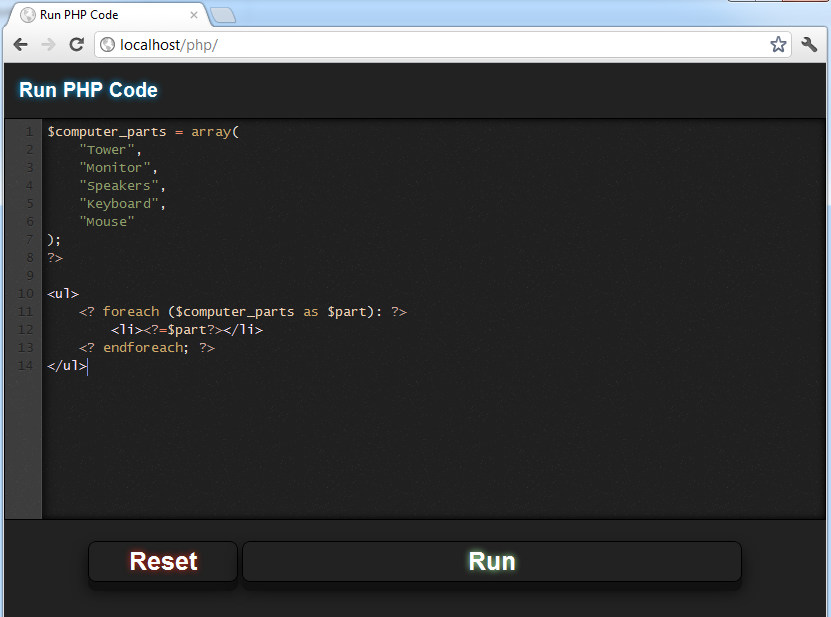
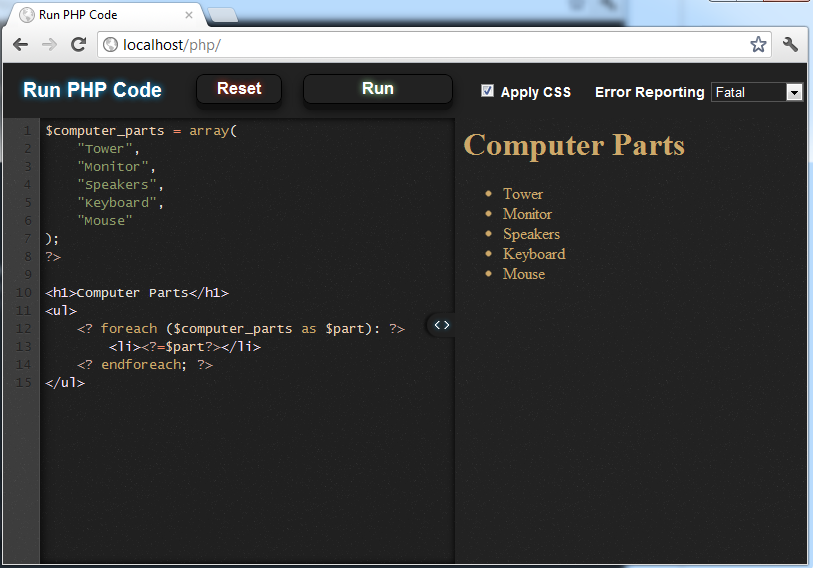
Move buttons to the top bar, add keyboard shortcut for run, show executed code in the same window, add resizer for code/run, update screenshot

diff --git a/run_php_code.js b/run_php_code.js
@@ -1,0 +1,89 @@
+var editor;
+var resizing;
+var divide_x;
+
+$(function() {
+
+	editor = CodeMirror.fromTextArea( document.getElementById("php"), {
+		lineNumbers: true,
+		matchBrackets: true,
+		mode: "application/x-httpd-php-open",
+		theme: "ambiance",
+		indentUnit: 4,
+		extraKeys: { 'Ctrl-Enter': function() { $('form').submit(); } }
+	});
+	
+	$('#reset').click(function() {
+		var answer = confirm("Are you sure you want to clear the editor?");
+		if (answer) editor.setValue('');
+	});
+	
+	$('#php_frame').load(function() {
+		if ($('#apply_css').prop('checked')) {
+			$(this).contents().find('body').css({
+				'background-color': '#222',
[1 lines of base64/hex data omitted]
+				'color': '#CDA869'
+			});
+		}
+		bind_php_frame();
+	}).load();
+	
+	divide_x = $(window).width() / 2;
+	
+	$(window).resize(function() {
+		var window_height = $(window).height();
+		var page_height = window_height - 55;
+		var page_width = $(window).width();
+		$('.CodeMirror-scroll').height(page_height); editor.refresh();
+		$('.CodeMirror').width(divide_x);
+		$('#php_frame').height(page_height);
+		$('#php_frame').width(page_width - divide_x);
+		$('#resize_ball').css('top', 55 + page_height/2 - 32);
+		$('#resize_ball').css('left', divide_x - 32 );
+	}).resize();
+	
+	$('#resize_ball').mousedown(function() { resizing = true; event.preventDefault(); }).mouseup(function(e) { resize_mouse_up(e.pageX) });
+	
+	$(document).mousemove(function(e) {
+		if (resizing) {
+			$('#resize_ball').css('left', e.pageX - 16);
+		}
+	}).mouseup(function(e) {
+		resize_mouse_up(e.pageX); 
+	});
+	
+	function bind_php_frame() {
+		$('#php_frame').contents().find('body').mousemove(function(e) {
+			if (resizing) {
+				var php_frame_position = $('#php_frame').position();
+				$('#resize_ball').css('left', e.pageX + php_frame_position.left - 32);
+			}
+		}).mouseup(function(e) {
+			resize_mouse_up( e.pageX + $('#php_frame').position().left ); 
+		});
+	}
+	
+	function resize_mouse_up(x) {
+		if (resizing) {
+			var window_width = $(window).width();
+			if (x < 100) x = 100;
+			if (x > window_width - 100) x = window_width - 100;
+			divide_x = x;
+			$('.CodeMirror').width(divide_x); editor.refresh();
+			$('#php_frame').width(window_width - divide_x);
+			resizing = false;
+			$(window).resize();
+		}
+	}
+
+});
+
+	
+	
+
+if (document.documentElement.attachEvent) {
+	document.documentElement.attachEvent('onmousedown',function(){
+		event.srcElement.hideFocus = true;
+	});
+}

diff --git a/run_php_code.css b/run_php_code.css
@@ -1,0 +1,67 @@
+html, body { padding: 0; margin: 0; }
+body { background-color: #222; color: #555; font-family: arial; overflow: hidden; }
+form { padding: 0; margin: 0; }
+
+#title_bar { 
+	font-size: 14px; 
+	line-height: 55px; 
+	font-weight: bold;
+	color: #FFF; 
+	height: 55px;
+	width: 1024px;
+	padding-left: 20px;
+}
+#title { font-size: 20px; text-shadow: 0 0 10px #00aaff; margin-right: 15px; }
+
+.CodeMirror { font-size: 13px; float: left; width: 50%; }
+
+.btn {
+	top: -3px;
+	position: relative;
+	color: #FFF;
+	background-color: #222;
+	font-size: 16px;
+	font-weight: bold;
+	/* display: block; */
+	padding: 4px 20px;
+	-webkit-border-radius: 8px;
+	-moz-border-radius: 8px;
+	border-radius: 8px;
+	-webkit-box-shadow: 0px 6px 0px #111, 0px 6px 15px rgba(0,0,0,.7);
+	-moz-box-shadow: 0px 6px 0px #111, 0px 6px 15px rgba(0,0,0,.7);
+	box-shadow: 0px 6px 0px #111, 0px 6px 15px rgba(0,0,0,.7);
+	text-align: center;
+
+	-webkit-transition: all .1s ease;
+	-moz-transition: all .1s ease;
+	-ms-transition: all .1s ease;
+	-o-transition: all .1s ease;
+	transition: all .1s ease;
+	cursor: pointer;
+	border: 1px solid black;
+	margin-left: 15px;
+}
+
+.btn:hover { background-color: #2A2A2A;	}
+
+.btn:active {
+		-webkit-box-shadow: 0px 2px 0px #111, 0px 2px 5px rgba(0,0,0,.9);
+		-moz-box-shadow: 0px 2px 0px #111, 0px 2px 5px rgba(0,0,0,.9);
+		box-shadow: 0px 2px 0px #111, 0px 2px 5px rgba(0,0,0,.9);
+		position: relative;
+		top: 3px;
+}
+
+.btn:active, #run:selected, #run:visited { outline: none;	}
+
+#button_container { text-align: center; display: inline; }
+#button_container label { margin-left: 20px; }
+
+#run { width: 150px; text-shadow: 0 0 10px #aaffaa; }
+#reset { text-shadow: 0 0 10px #d92915; }
+
+#title_bar select { background-color: #222; color: #FFF; border: 1px solid #555; }
+
+#php_frame { border: none; background-color: #FFF; float: right; width: 50%; }
+
+#resize_ball { position: fixed; width: 32px; height: 32px; z-index: 9999; cursor: e-resize; }

diff --git a/index.php b/index.php
@@ -12,6 +12,16 @@ if (!in_array($_SERVER['REMOTE_ADDR'], array('127.0.0.1', '::1'))) die('dead');
 
 if (isset($_POST['phprun_action']) && $_POST['phprun_action'] == 'run') 
 {
+	ini_set('display_errors', 1);
+	switch ($_POST['error_reporting'])
+	{
+		case 'fatal': error_reporting(E_ERROR | E_PARSE | E_COMPILE_ERROR); break;
+		case 'warning': error_reporting(E_ERROR | E_PARSE | E_COMPILE_ERROR | E_WARNING); break;
+		case 'deprecated': error_reporting(E_ERROR | E_PARSE | E_COMPILE_ERROR | E_WARNING | E_DEPRECATED | E_USER_DEPRECATED); break;
+		case 'notice': error_reporting(E_ERROR | E_PARSE | E_COMPILE_ERROR | E_WARNING | E_DEPRECATED | E_USER_DEPRECATED | E_NOTICE); break;
+		case 'all': error_reporting(-1); break;
+		case 'none': default: error_reporting(0);	break;
+	}
 	$phprun_code = ltrim($_POST['phprun_code']);
 	if (substr($phprun_code,0,5) == '<?php') $phprun_code = substr($phprun_code, 5);
 	ob_start();
@@ -19,7 +29,8 @@ if (isset($_POST['phprun_action']) && $_POST['phprun_action'] == 'run')
 	$phprun_html = ob_get_clean();
 	echo $phprun_html;
 	die();
-} 
+}
+
 ?>
 <?php if (!isset($_POST['action']) || $_POST['action'] != 'run'): ?>
 <!DOCTYPE html>
@@ -33,96 +44,44 @@ if (isset($_POST['phprun_action']) && $_POST['phprun_action'] == 'run')
 		<script type="text/javascript" src="codemirror2/mode/css/css.js"></script>
 		<script type="text/javascript" src="codemirror2/mode/clike/clike.js"></script>
 		<script type="text/javascript" src="codemirror2/mode/php/php.js"></script>
+		<script type="text/javascript" src="run_php_code.js"></script>
 
 		<link rel="stylesheet" href="codemirror2/lib/codemirror.css">
 		<link rel="stylesheet" href="codemirror2/theme/ambiance.css">
-
-		<script type="text/javascript">
-			var editor;
-			$(function() {
-				editor = CodeMirror.fromTextArea( document.getElementById("php"), {
-					height: "dynamic",
-					lineNumbers: true,
-					matchBrackets: true,
-					mode: "application/x-httpd-php-open",
-					theme: "ambiance",
-					indentUnit: 4
-				});
-				$('#reset').click(function() {
-					var answer = confirm("Are you sure you want to clear the editor?");
-					if (answer) editor.setValue('');
-				});
-			});
-			if (document.documentElement.attachEvent) {
-				document.documentElement.attachEvent('onmousedown',function(){
-					event.srcElement.hideFocus = true;
-				});
-			}
-		</script>
-
-		<style type="text/css">
-			html, body { padding: 0; margin: 0; }
-			body { background-color: #222; color: #555; font-family: arial; }
-			#title_bar { 
-				font-size: 20px; font-weight: bold;
-				color: #FFF; text-shadow: 0 0 10px #00aaff; padding: 15px; 
-			}
-			.CodeMirror {border: 1px solid black; font-size:13px}
-			.CodeMirror-scroll { height: auto; overflow-y: hidden; overflow-x: auto; min-height: 400px; }
-			.btn {
-				color: #FFF;
-				background-color: #222;
-				font-size: 25px;
-				font-weight: bold;
-				/* display: block; */
-				padding: 4px;
-				-webkit-border-radius: 8px;
-				-moz-border-radius: 8px;
-				border-radius: 8px;
-				-webkit-box-shadow: 0px 9px 0px #111, 0px 9px 25px rgba(0,0,0,.7);
-				-moz-box-shadow: 0px 9px 0px #111, 0px 9px 25px rgba(0,0,0,.7);
-				box-shadow: 0px 9px 0px #111, 0px 9px 25px rgba(0,0,0,.7);
-				text-align: center;
-
-				-webkit-transition: all .1s ease;
-				-moz-transition: all .1s ease;
-				-ms-transition: all .1s ease;
-				-o-transition: all .1s ease;
-				transition: all .1s ease;
-				cursor: pointer;
-				border: 1px solid black;
-			}
-
-			.btn:hover { background-color: #252525;	}
-
-			.btn:active {
-					-webkit-box-shadow: 0px 3px 0px #111, 0px 3px 6px rgba(0,0,0,.9);
-					-moz-box-shadow: 0px 3px 0px #111, 0px 3px 6px rgba(0,0,0,.9);
-					box-shadow: 0px 3px 0px #111, 0px 3px 6px rgba(0,0,0,.9);
-					position: relative;
-					top: 6px;
-			}
-			
-			.btn:active, #run:selected, #run:visited { outline: none;	}
-			
-			#button_container { text-align: center; }
-			#run { width: 500px; text-shadow: 0 0 10px #aaffaa; }
-			#reset { width: 150px; text-shadow: 0 0 10px #d92915; }
-			
-		</style>
+		<link rel="stylesheet" href="run_php_code.css">
 	</head>
 	<body>
-		<div id="title_bar">Run PHP Code</div>
-    
-		<form method="POST" action="" target="_blank">
+		<img id="resize_ball" src="resize_ball.png" />
+		
+		<form method="POST" action="" target="run_php_code">
 			<input type="hidden" name="phprun_action" value="run" />
-			<textarea name="phprun_code" id="php" rows="15"></textarea><br />
-			<div id="button_container">
-				<button class="btn" type="button" id="reset">Reset</button>
-				<button class="btn" type="submit" id="run">Run</button>
-			</div>
-		</form>
 			
+			<div id="title_bar">
+				<span id="title">Run PHP Code</span>
+				<div id="button_container">
+					<button class="btn" type="button" id="reset">Reset</button>
+					<button class="btn" type="submit" id="run" title="Run (Ctrl+Enter)">Run</button>
+					<label><input type="checkbox" id="apply_css" checked="checked" /> Apply CSS</label>
+					<label>
+						Error Reporting
+						<select name="error_reporting">
+							<option value="none">None</option>
+							<option value="fatal" selected="selected">Fatal</option>
+							<option value="warning">Warning</option>
+							<option value="deprecated">Deprecated</option>
+							<option value="notice">Notice</option>
+							<option value="all">All</option>
+						</select>
+					</label>
+				</div>
+			</div>
+			
+			<textarea name="phprun_code" id="php"></textarea>
+		</form>
+		
+		<iframe id="php_frame" name="run_php_code">
+		</iframe>
+		
 	</body>
 </html>
-<? endif; ?>
+<?php endif; ?>

diff --git a/README.md b/README.md
@@ -11,4 +11,4 @@ This script gives you the ability to quickly test snippets of PHP code locally.
 
 <a href="http://codemirror.net/">CodeMirror</a>  
 Copyright (C) 2012 by Marijn Haverbeke <marijnh@gmail.com>  
-Licensed under the <a href="http://www.opensource.org/licenses/mit-license.php">MIT License</a>
+Licensed under the <a href="http://www.opensource.org/licenses/mit-license.php">MIT License</a>  
